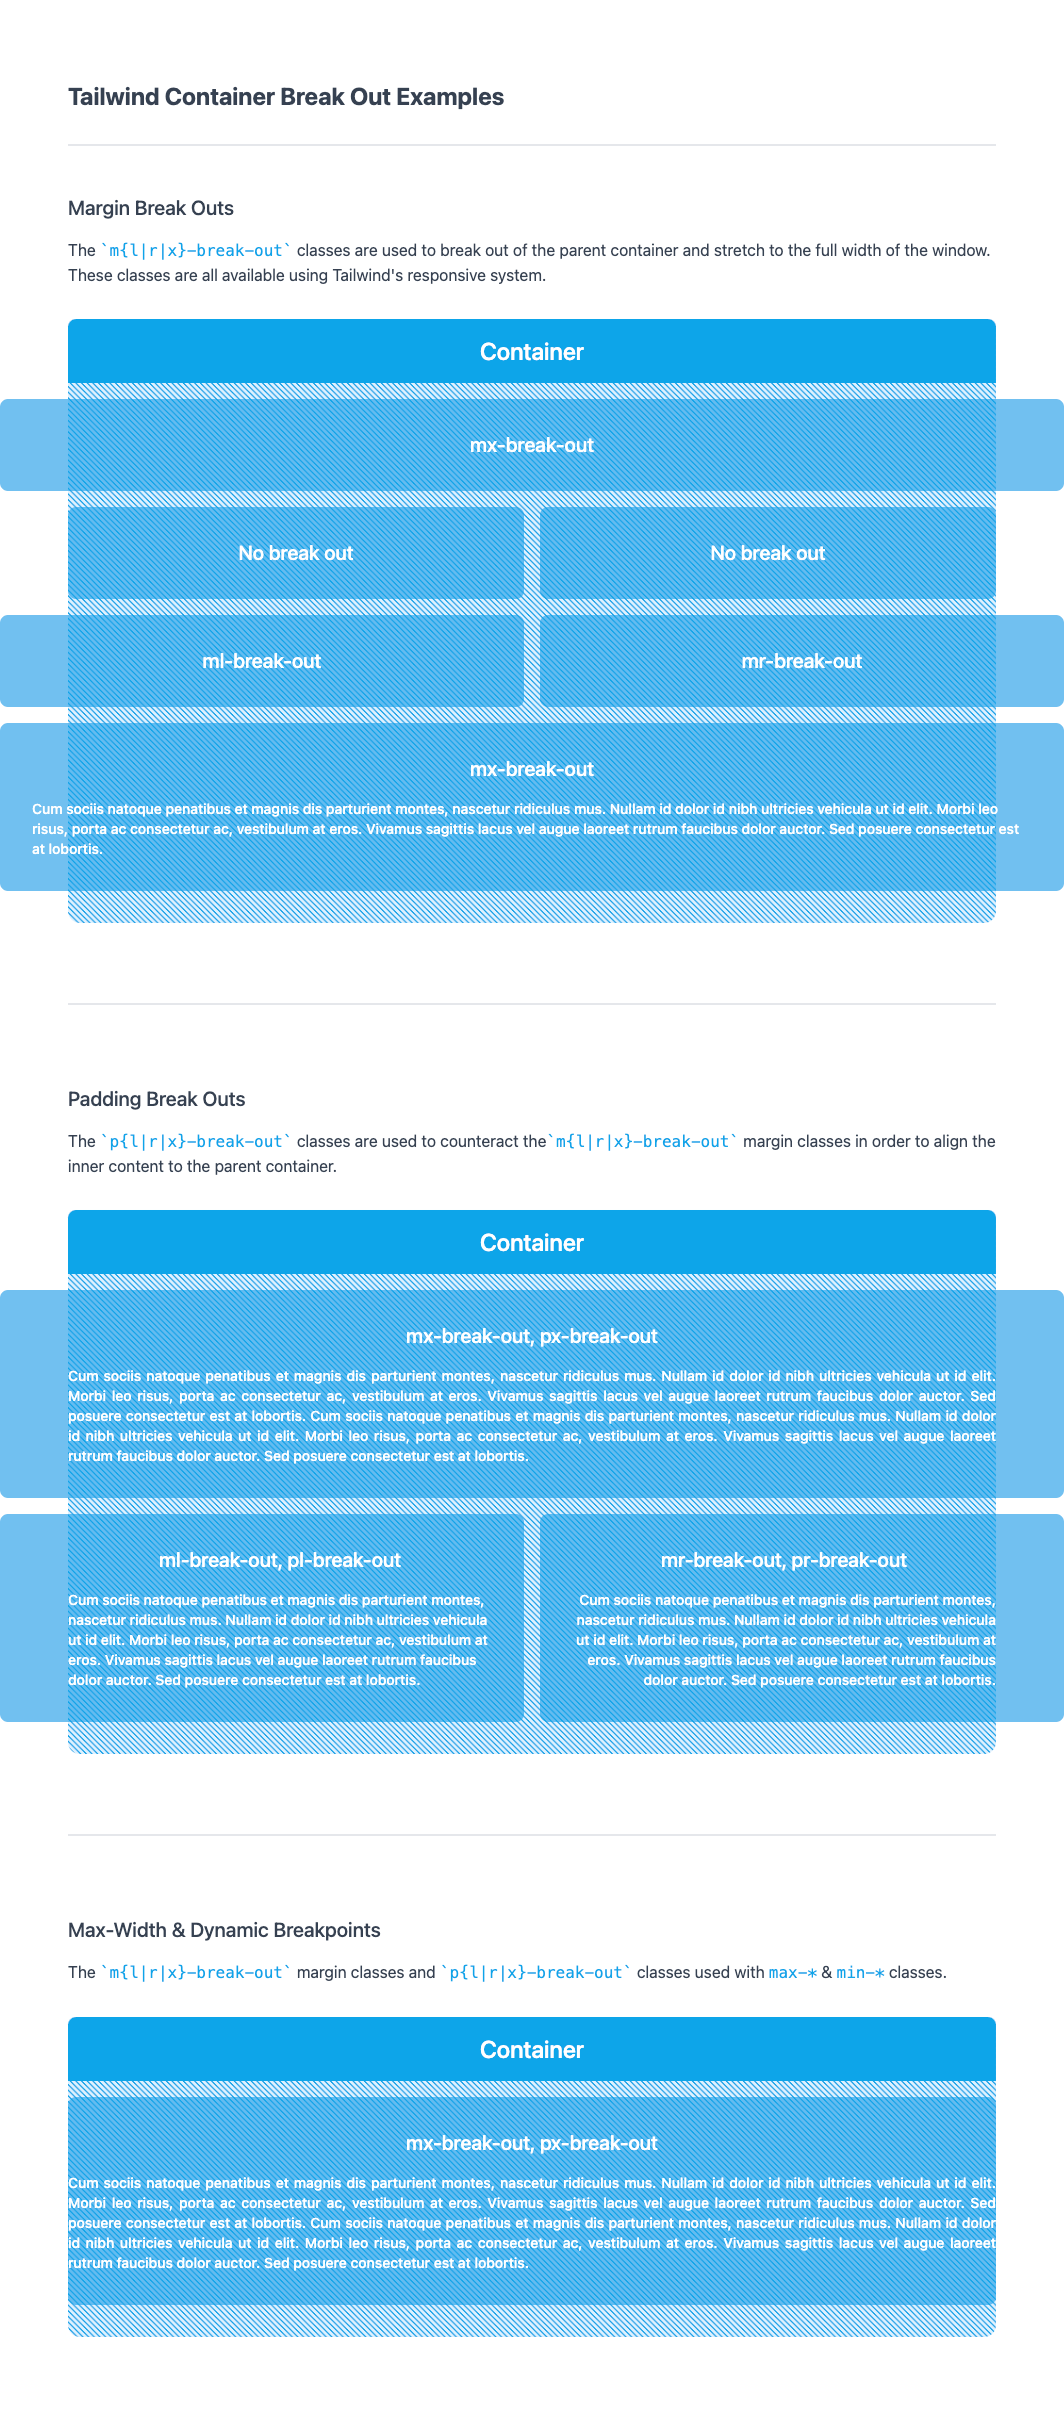
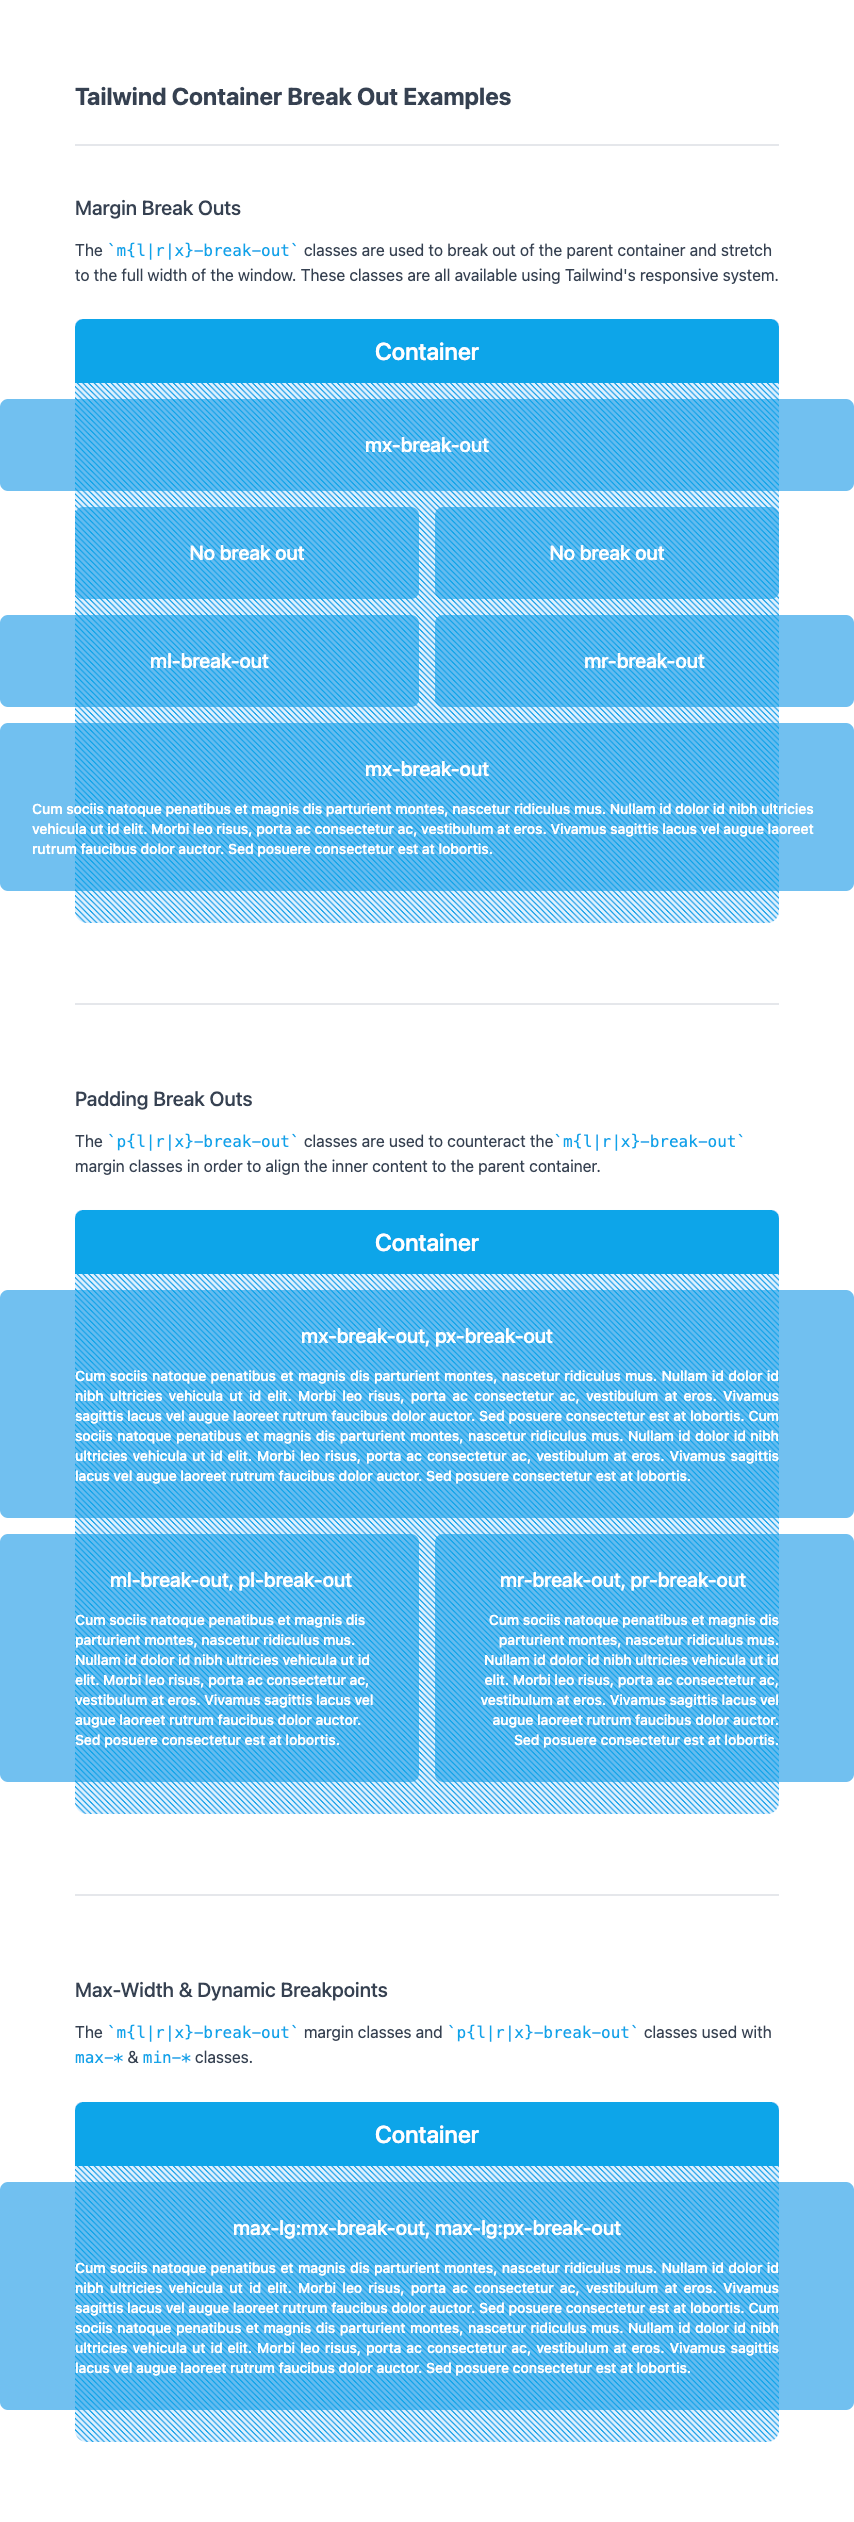
Updated docs and examples

diff --git a/examples/pages/index.js b/examples/pages/index.js
@@ -85,8 +85,8 @@ export default function Home() {
 
         <div className="rounded-xl bg-stripes bg-gradient-to-r from-blue-lightest to-blue-light bg-blue-light grid grid-cols-2 gap-4 text-white text-center font-medium text-xl pb-8">
           <div className="col-span-2 bg-blue rounded-tr-lg rounded-tl-lg text-2xl p-4">Container</div>
-          <div className="col-span-2 rounded-lg bg-blue/70 py-8 max-md:mx-break-out max-md:px-break-out">
-            mx-break-out, px-break-out
+          <div className="col-span-2 rounded-lg bg-blue/70 py-8 max-lg:mx-break-out max-lg:px-break-out">
+            max-lg:mx-break-out, max-lg:px-break-out
             <p className="text-justify text-sm mt-4">
               Cum sociis natoque penatibus et magnis dis parturient montes, nascetur ridiculus mus. Nullam id dolor id
               nibh ultricies vehicula ut id elit. Morbi leo risus, porta ac consectetur ac, vestibulum at eros. Vivamus
